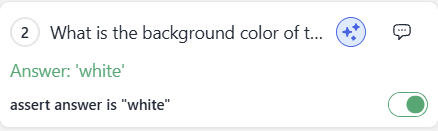
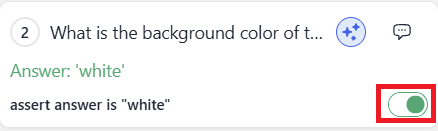
scrolling for toc, ask ai step updates

Changed region(s): [[0.8607, 0.6412, 1.0, 0.9466]]

diff --git a/src/app/docs/layout.tsx b/src/app/docs/layout.tsx
@@ -16,7 +16,7 @@ export default function DocsLayout({
       <div className="pt-[72px]">
         <div className="flex">
           {/* Sidebar */}
-          <aside className="w-72 flex-shrink-0 border-r border-slate-200 bg-white min-h-screen">
+          <aside className="w-72 flex-shrink-0 border-r border-slate-200 bg-white sticky top-[72px] h-[calc(100vh-72px)] overflow-y-auto">
             <div className="p-6">
               <h2 className="text-lg font-semibold text-slate-900 mb-4">
                 Documentation

diff --git a/src/data/docs/parameters/secrets/content.md b/src/data/docs/parameters/secrets/content.md
@@ -27,7 +27,7 @@ When you record scenarios involving sensitive information, these values are auto
 
 Probium prioritizes security by storing sensitive data, such as passwords, locally on your computer rather than on its servers. These values are stored in a file named `.env` in your home directory (e.g., `C://Users/<Your username>/.probium/.env` on Windows).
 
-### Method 1: Using the App Settings
+#### Method 1: Using the App Settings
 1. Click on **Settings** at the bottom of the side panel.
 <img src="/images/screenshots/settings-button.png" alt="Settings button" width="400" />
 2. Locate the **Environmental Variables** section.
@@ -35,7 +35,7 @@ Probium prioritizes security by storing sensitive data, such as passwords, local
 3. Add, delete, or update the values of your secret parameters directly in the interface.
 4. Click on the **Save** button.
 
-### Method 2: Manual File Editing
+#### Method 2: Manual File Editing
 1. Open the `.env` file located in the `~/.probium/` folder using any text editor.
 2. Modify the parameters and save the file.
 3. To sync these changes with the app, click the **Reload** icon in the application settings.

diff --git a/src/data/docs/step-types/ask-ai/content.md b/src/data/docs/step-types/ask-ai/content.md
@@ -10,6 +10,7 @@ The Ask AI step allows you to formulate questions in natural language that the A
 3. Click the "Add to interactions list" button
 <img src="/images/screenshots/ask-ai.png" alt="Ask AI" width="300" />
 4. The "Ask AI" step will be added to the current scenario.
+5. Enabling the assertion switch will convert this step into an assertion.
 <img src="/images/screenshots/ask-ai-step.png" alt="Ask AI step" width="300" />
 
 ### Example Questions
